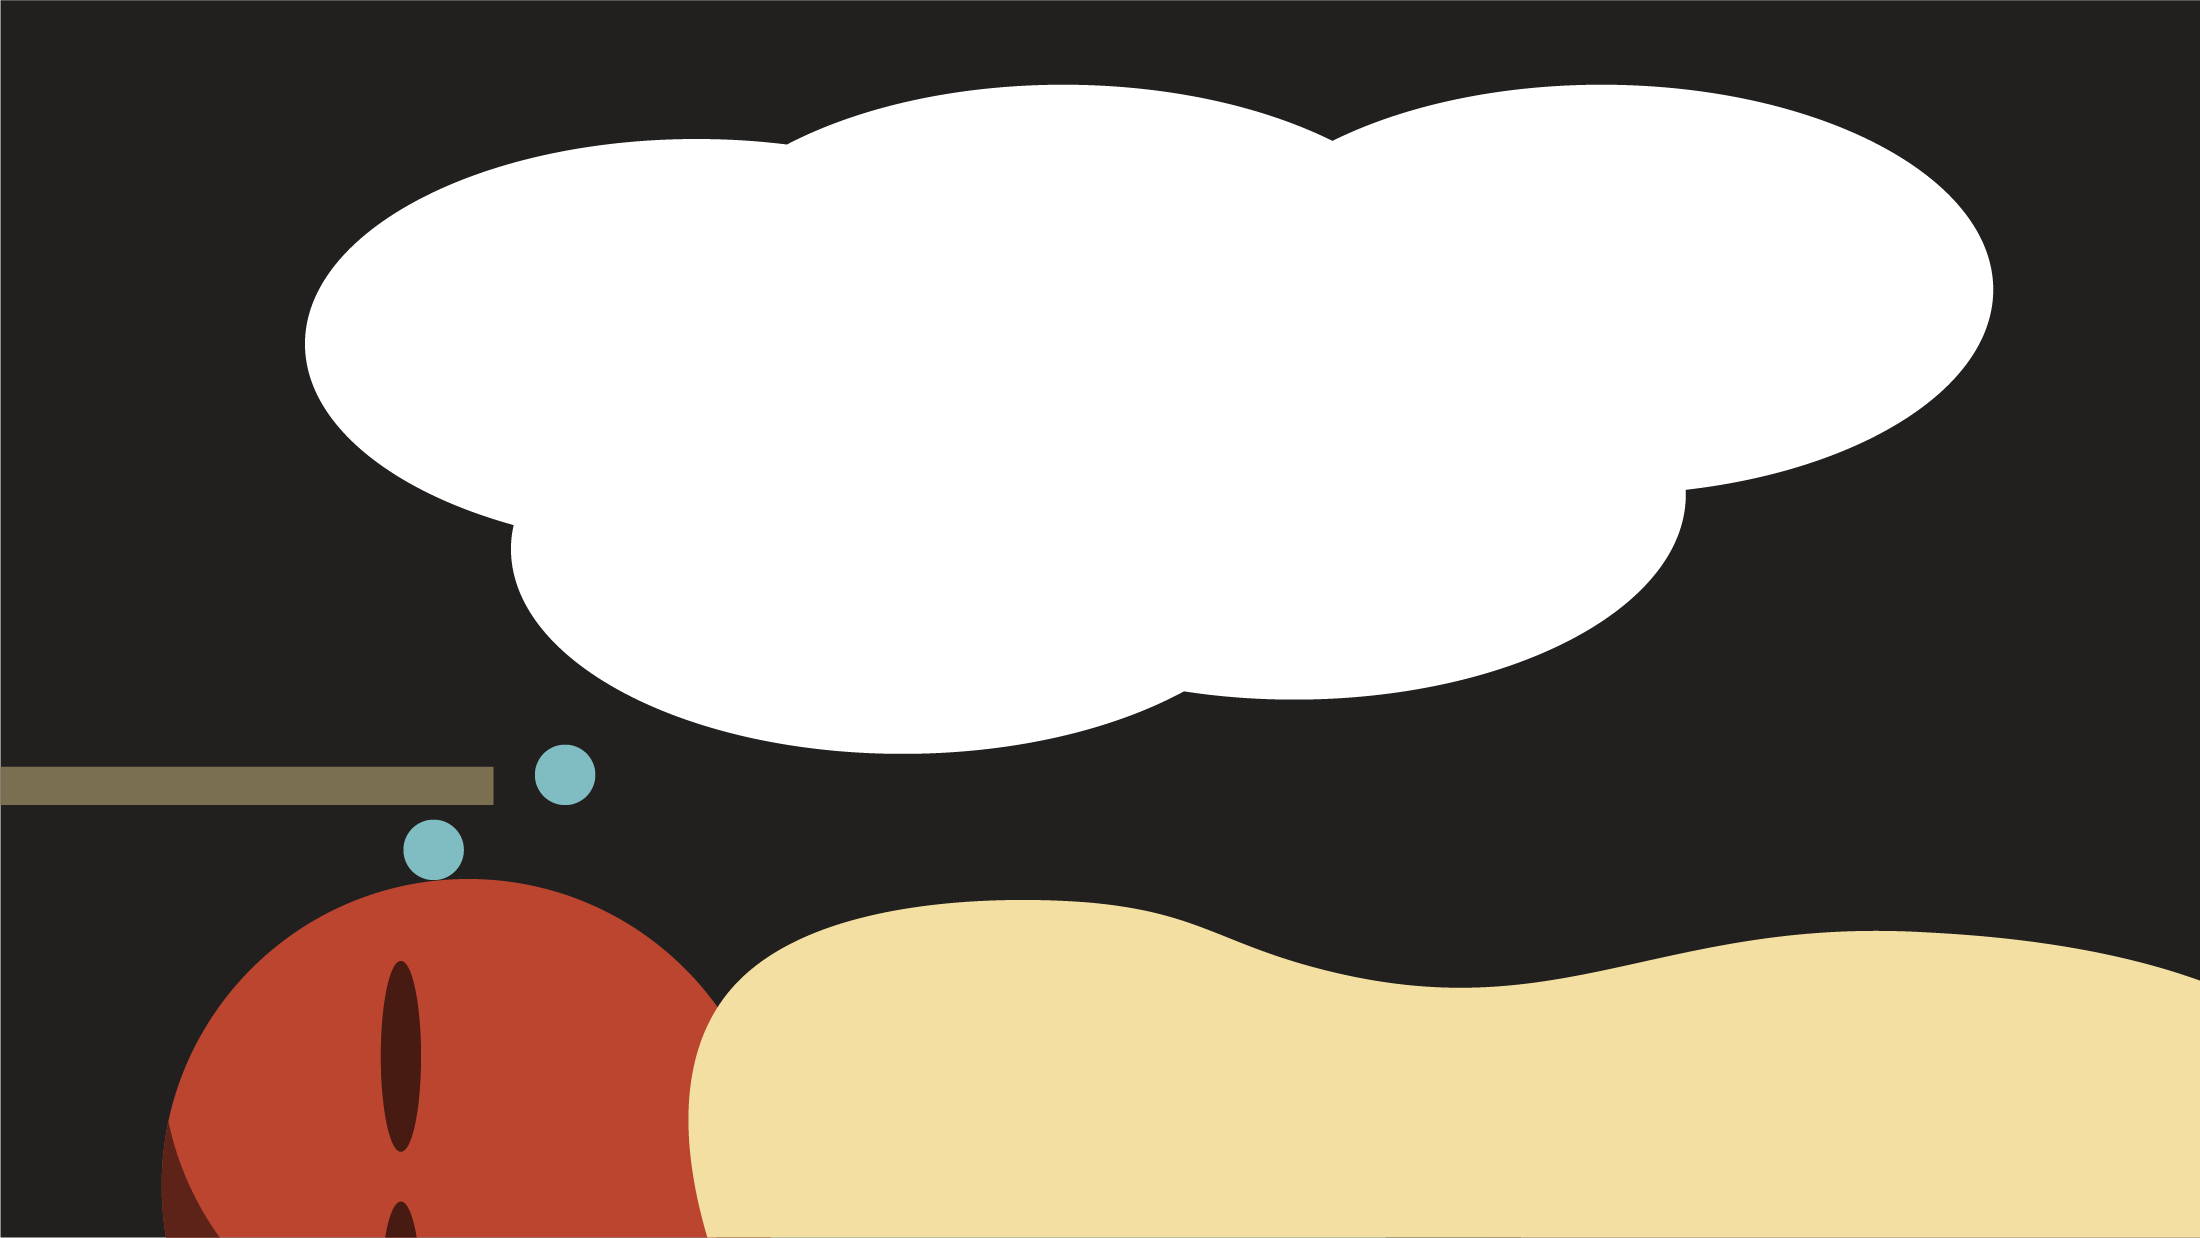
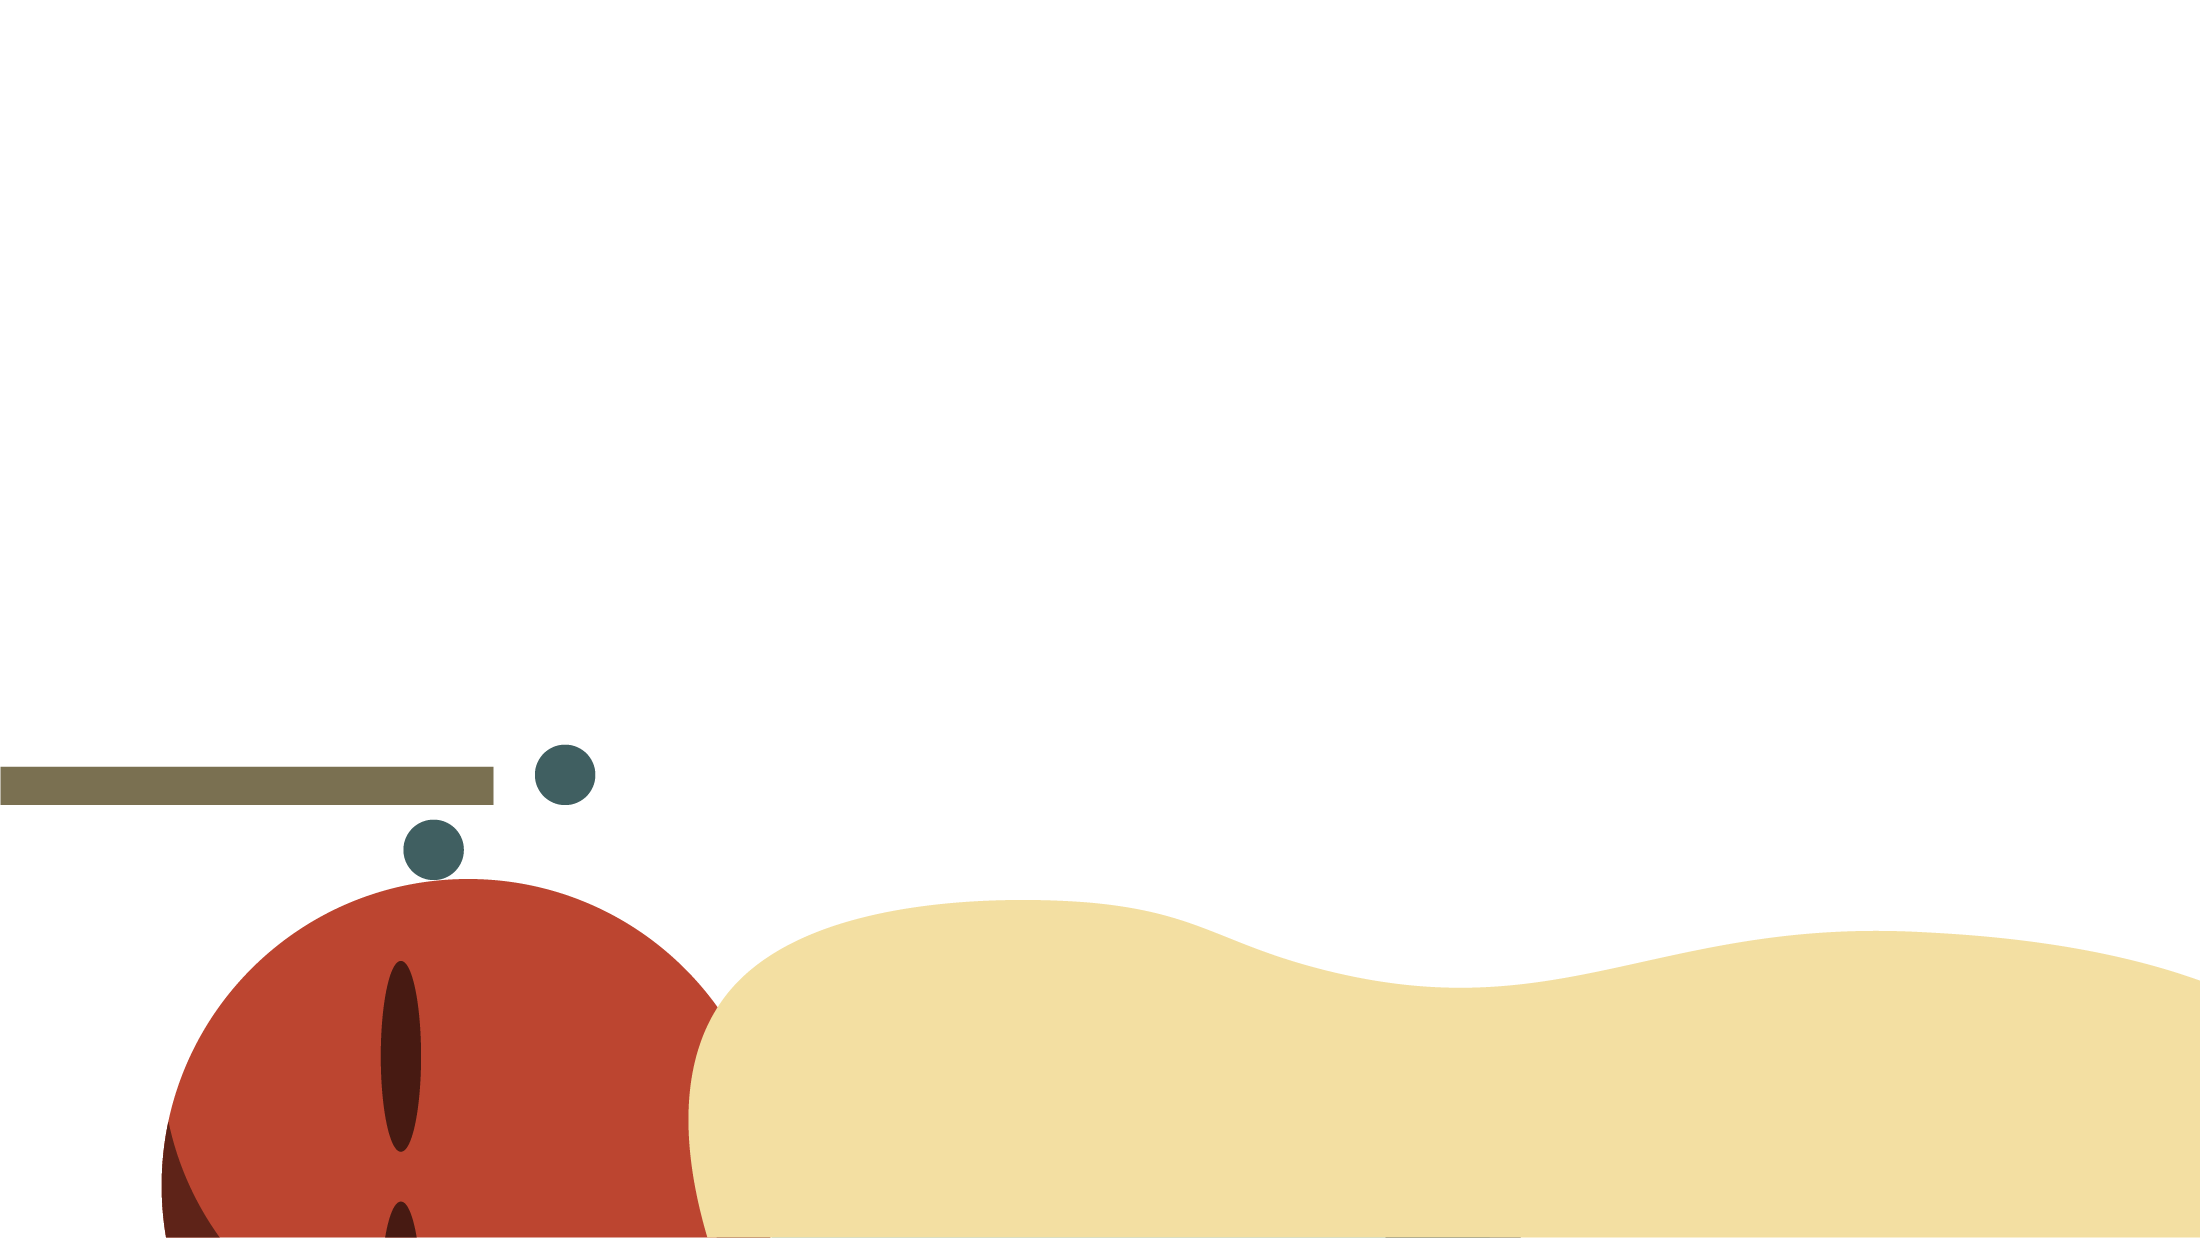
PushLIghting

diff --git a/Assets/Scripts/UI/TurnOnLight.cs b/Assets/Scripts/UI/TurnOnLight.cs
@@ -1,0 +1,34 @@
+using System.Collections;
+using System.Collections.Generic;
+using UnityEngine;
+using UnityEngine.UI;
+
+public class TurnOnLight : MonoBehaviour
+{
+    [SerializeField] Image image;
+    [SerializeField] Color32 dark;
+    [SerializeField] Color32 light;
+
+    private void OnEnable()
+    {
+        EventManager.lightEvent += TurnOnTheLight;
+        EventManager.continueDreaming += TurnOffTheLight;
+    }
+
+    private void OnDisable()
+    {
+        EventManager.lightEvent -= TurnOnTheLight;
+        EventManager.continueDreaming -= TurnOffTheLight;
+    }
+
+
+    void TurnOnTheLight()
+    {
+        image.color = light;
+    }
+
+    void TurnOffTheLight()
+    {
+        image.color = dark;
+    }
+}

diff --git a/Assets/Scripts/PostProcessing.cs b/Assets/Scripts/PostProcessing.cs
@@ -38,6 +38,7 @@ public class PostProcessing : MonoBehaviour
     {
         volume = GetComponent<PostProcessVolume>();
         volume.profile.TryGetSettings(out vignette);
+
     }
 
     private void Update()
